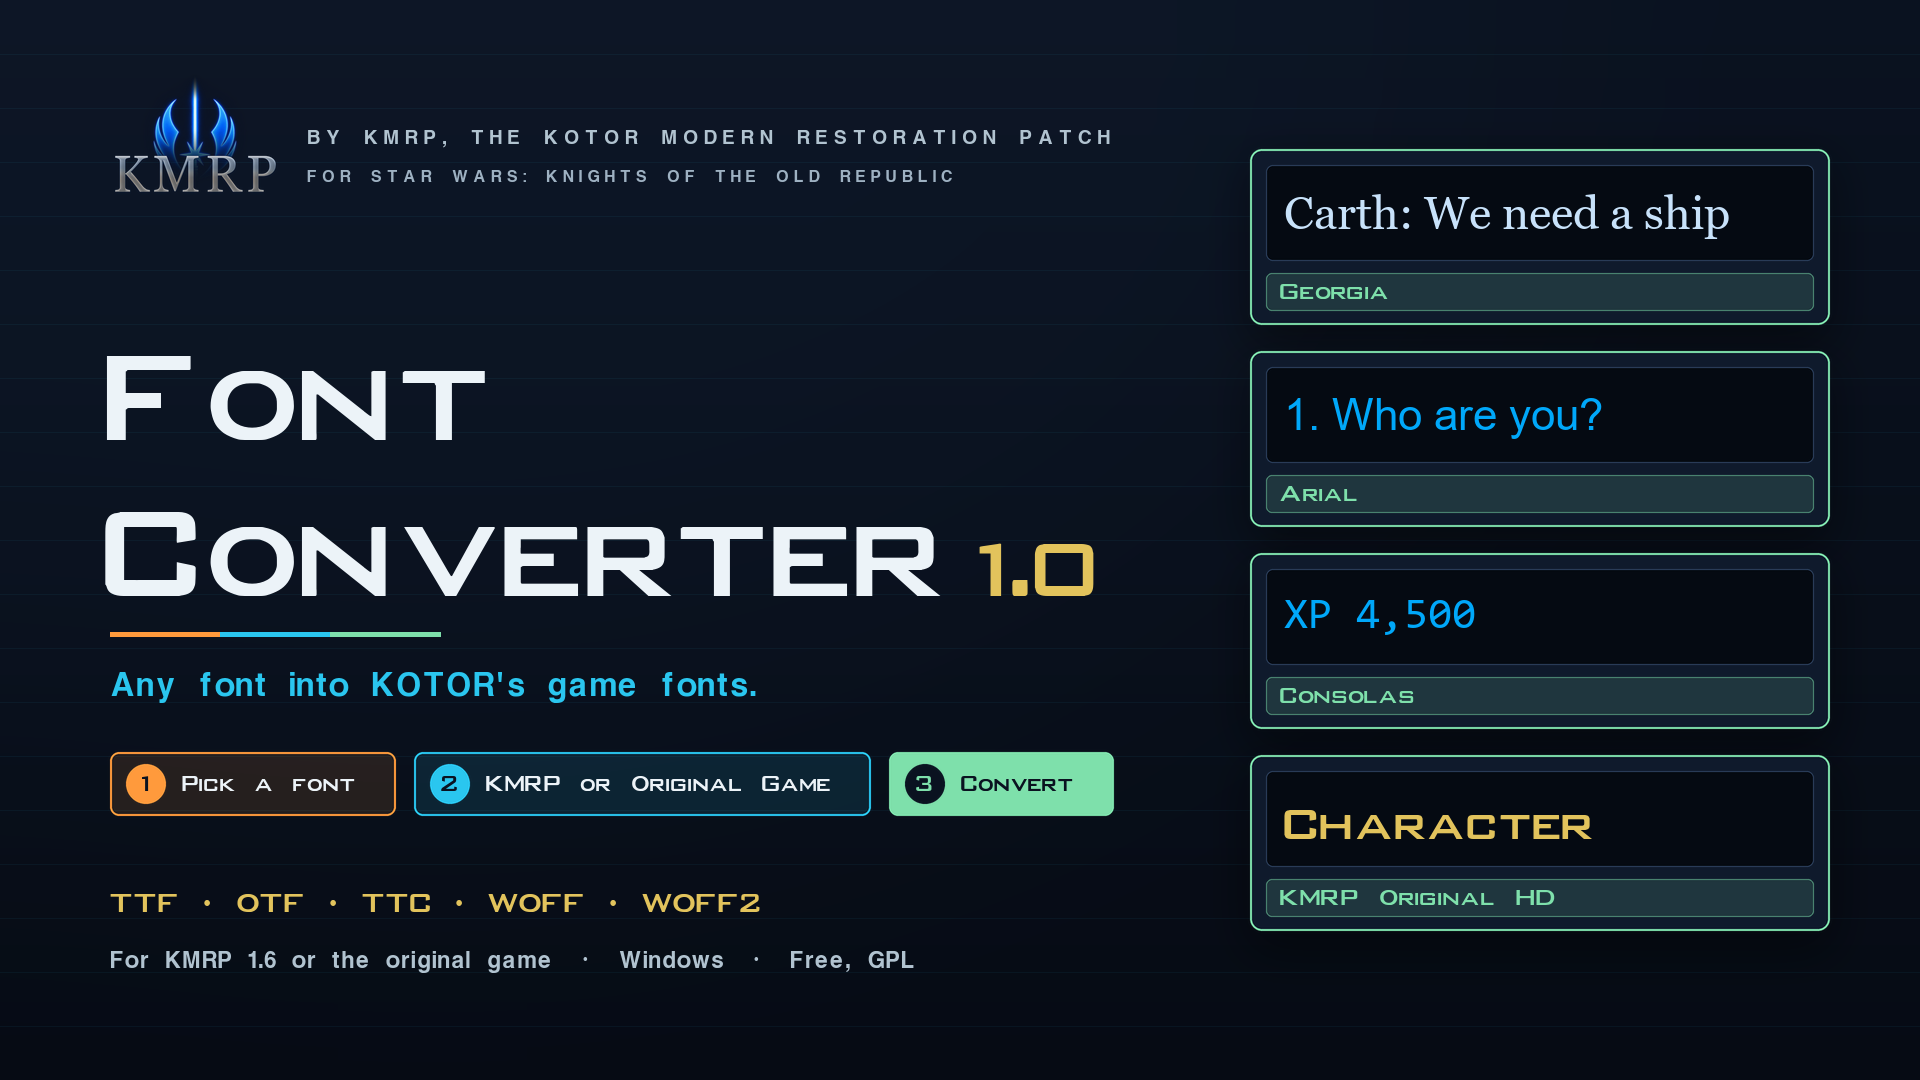
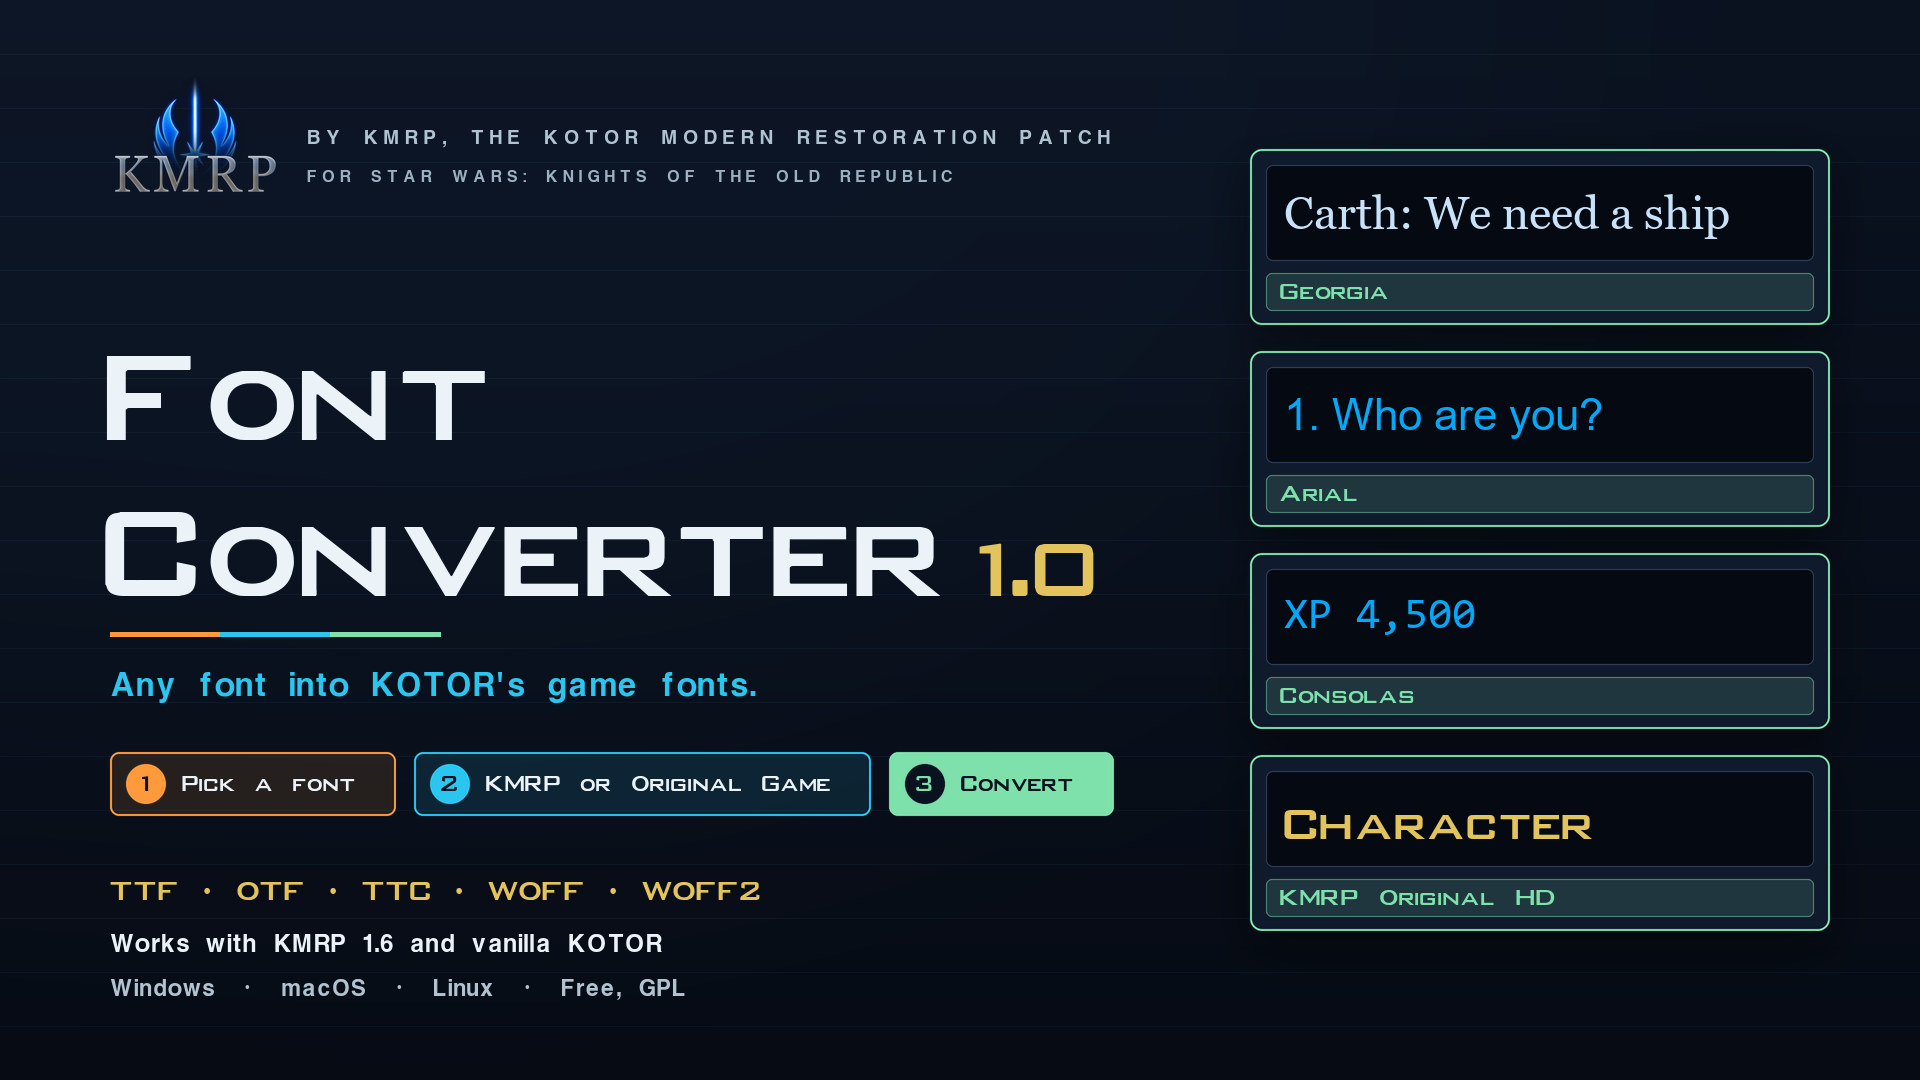
Press kit cover: KMRP and vanilla KOTOR, Windows, macOS and Linux
The cover's foot says "Works with KMRP 1.6 and vanilla KOTOR" and
"Windows, macOS, Linux" (the maintainer: "say it works with kmrp and
vanilla kotor and also it has linux, windows and macos support"); until
then "For KMRP 1.6 or the original game", Windows alone. The other four
pages came out byte for byte as before.

The release packages made again from a6b9d50: the Windows exe byte for
byte the recorded one, the regression test passed on it; the zip with the
current README; the x86_64 AppImage packed by the new build-linux.sh,
converting for both versions under Ubuntu 20.04 (glibc 2.30 or newer).
Their hashes are in font-converter.md section 6. The macOS DMG is still to
be made on a Mac.

Changed region(s): [[0.0625, 0.7944, 0.4062, 0.9472], [0.4062, 0.8861, 0.4688, 0.9167]]

diff --git a/font-converter/release/make_press_kit.py b/font-converter/release/make_press_kit.py
@@ -193,8 +193,12 @@ def make_cover():
         cx += chip(canvas, cx, 752, n, words, colour, filled) + 18
 
     draw = ImageDraw.Draw(canvas)
-    draw.text((110, 912), "TTF \u00b7 OTF \u00b7 TTC \u00b7 WOFF \u00b7 WOFF2", font=face("Menu", 32), fill=GOLD, anchor="ls")
-    draw.text((110, 968), "For KMRP 1.6 or the original game  \u00b7  Windows  \u00b7  Free, GPL", font=face("Descriptions", 28),
+    draw.text((110, 900), "TTF \u00b7 OTF \u00b7 TTC \u00b7 WOFF \u00b7 WOFF2", font=face("Menu", 32), fill=GOLD, anchor="ls")
+    # What it works with and where it runs (2026-11-13, the maintainer: "say it works with kmrp
+    # and vanilla kotor and also it has linux, windows and macos support"); until then one line,
+    # "For KMRP 1.6 or the original game, Windows, Free, GPL".
+    draw.text((110, 952), "Works with KMRP 1.6 and vanilla KOTOR", font=face("Descriptions", 30), fill=TEXT, anchor="ls")
+    draw.text((110, 996), "Windows  \u00b7  macOS  \u00b7  Linux  \u00b7  Free, GPL", font=face("Descriptions", 28),
               fill=MUTED, anchor="ls")
 
     tx, tw, th, gap = 1250, 580, 176, 26

diff --git a/font-converter/docs/font-converter.md b/font-converter/docs/font-converter.md
@@ -377,6 +377,19 @@ to the download from WSL. The macOS app was not made: that needs a Mac.
[2 lines of base64/hex data omitted]
 
+Made again for the release on 2026-11-13, from commit a6b9d50, the same way (cargo-zigbuild
+0.24.1 with zig 0.17.1, both from pip). The exe came out byte for byte the one above, and the
+regression test passed on it. The x86_64 AppImage, packed by the new `build-linux.sh
+--pack-only`, converted for both versions under Ubuntu 20.04 and needs glibc 2.30 or newer.
+These are the packages for the release; the zip and AppImage rows above are superseded:
+
+| Package (1.0.0, Rust, 2026-11-13) | Bytes | SHA-256 |
+| --- | ---: | --- |
[3 lines of base64/hex data omitted]
+| `KOTOR-Font-Converter-1.0.0-macOS.dmg` | not yet made | to be made by the maintainer on a Mac with `build-macos.sh` |
+
 The zip and the AppImages hold file times, so they differ at every build; the Windows exe
 inside does not. The exe is 13.4 times the C# one's 840,192 bytes: the window's toolkit with
 its two renderers, the font reader, the C runtime and the two window fonts are now inside it

diff --git a/font-converter/release/press-kit/README.md b/font-converter/release/press-kit/README.md
@@ -11,7 +11,7 @@ Five pages, in the order to show them.
 
 | File | What |
 | --- | --- |
-| [`01-cover.png`](01-cover.png) | Cover: Font Converter 1.0, its three steps, the font files it reads, four sample tiles (Georgia, Arial, Consolas, KMRP Original HD) |
+| [`01-cover.png`](01-cover.png) | Cover: Font Converter 1.0, its three steps, the font files it reads, that it works with KMRP 1.6 and vanilla KOTOR, on Windows, macOS and Linux, four sample tiles (Georgia, Arial, Consolas, KMRP Original HD) |
 | [`02-the-converter.png`](02-the-converter.png) | The converter's window, five fonts picked, KMRP chosen, 1600x900 |
 | [`03-original-game.png`](03-original-game.png) | Original game: the main menu in the game's own font beside the same menu in Georgia, 1280x960 |
 | [`04-conversations.png`](04-conversations.png) | Original game: a conversation and its replies in Georgia, 1280x960 |
@@ -40,3 +40,10 @@ Five pages, in the order to show them.
   reduced to 2000x837 before it reached this folder, with Georgia made for KMRP in Override.
   It was taken before KMRP's Modded Font row existed, so the page shows HD Font chosen.
 - The screenshots themselves are kept out of the repository (`build/press-kit-shots`).
+
+*Changed 2026-11-13:* the cover's foot says "Works with KMRP 1.6 and vanilla KOTOR" and
+"Windows, macOS, Linux" (the maintainer: "say it works with kmrp and vanilla kotor and also
+it has linux, windows and macos support"). Until then it said "For KMRP 1.6 or the original
+game", and Windows alone, from before the Rust rewrite. The other four pages came out byte
+for byte as before. The macOS and Linux programs are not in any frame: every screenshot is
+of Windows.

diff --git a/CHANGELOG.md b/CHANGELOG.md
@@ -145,6 +145,9 @@ The 11 OpenType files and the collection listed with their hashes in
   kept. KMRP keeps its HD Font atlases, drawn from these fonts.
 - 2026-11-09: the press kit, in the converter's own style; the README's logo; the
   documentation standard imported from KMRP's, with KMRP's link checker; this changelog.
+- 2026-11-13: the press kit's cover says the converter works with KMRP 1.6 and vanilla KOTOR,
+  on Windows, macOS and Linux (until then "For KMRP 1.6 or the original game", Windows
+  alone). The release packages made again, their hashes in font-converter.md section 6.
 
 **Corrected 2026-11-09:** the release zip's `README.txt` and notices, and the fonts'
 download readme, still named KMRP's repository as the home of the source and the fonts
